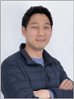
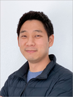
update team images and fix typo

diff --git a/_includes/section-4.html b/_includes/section-4.html
@@ -121,7 +121,7 @@
 				</td>
 			</tr>
 			<tr>
-				<td><b>Nahhyun Bae</b><br>UX/UI</td>
+				<td><b>Nahyun Bae</b><br>UX/UI</td>
 				<td><b>Yerang Yoon</b><br>UX/UI<br>Web</td>
 			</tr>
 		</table>
